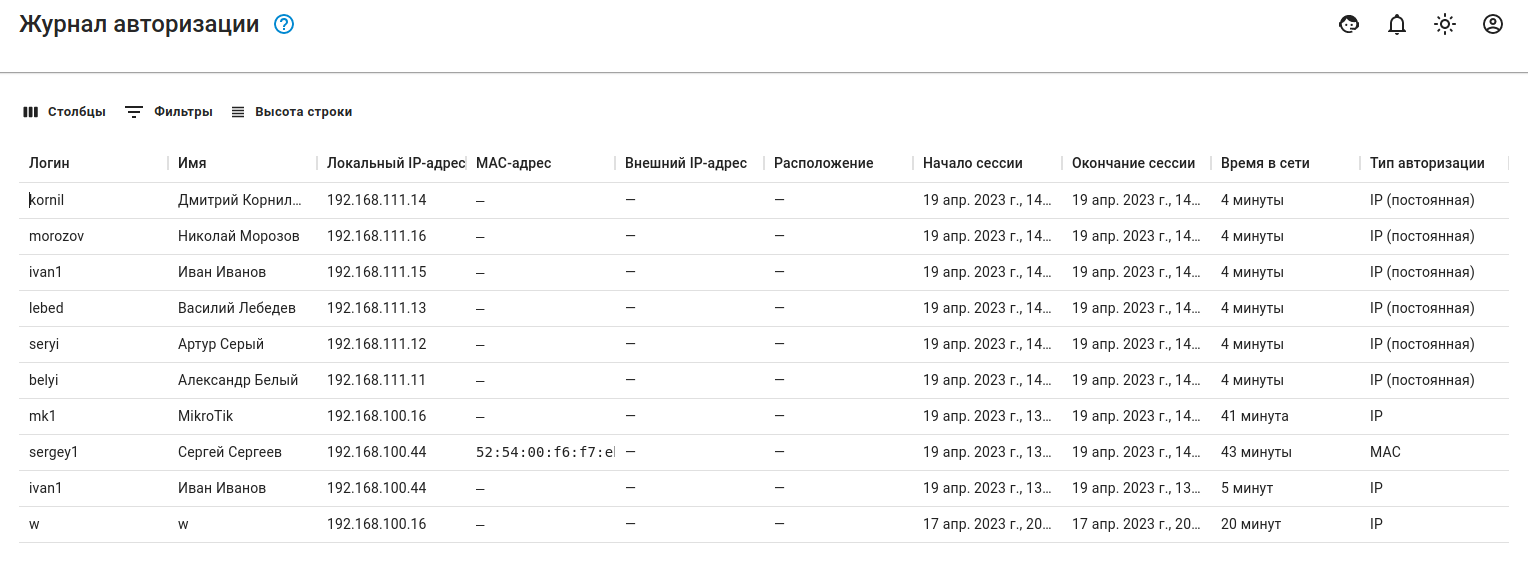
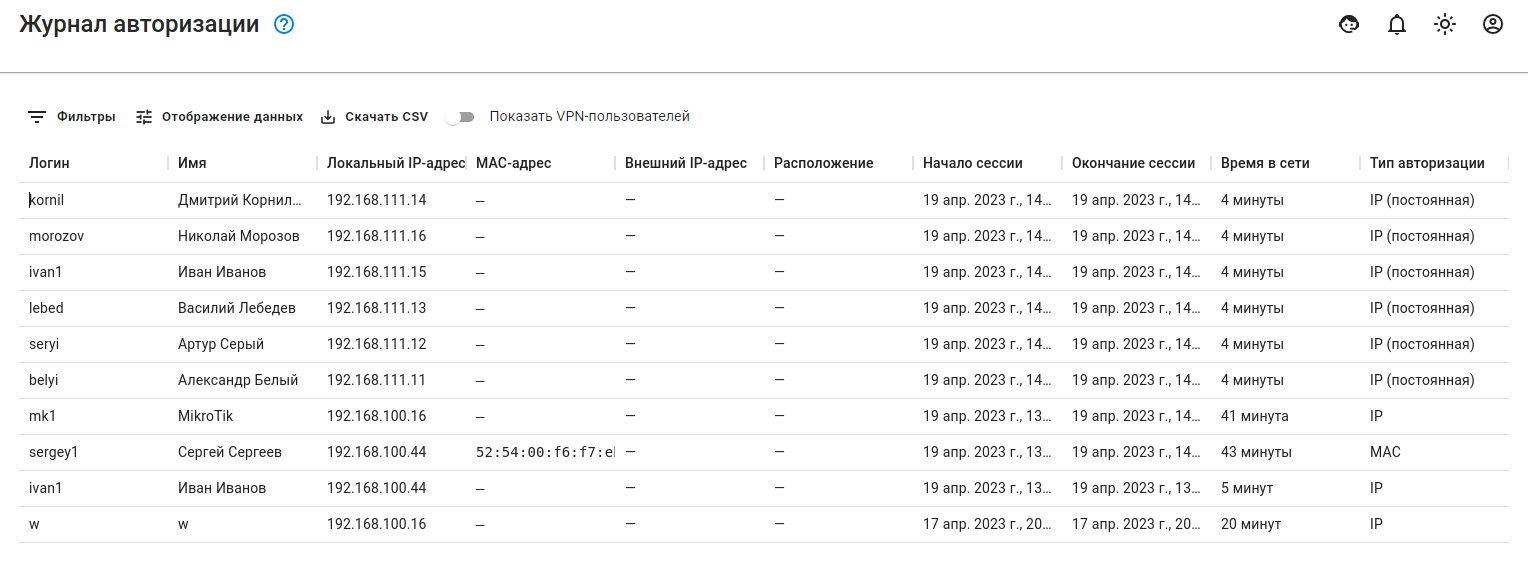
ICS-31985 УТМ. Добавить информацию о переключателе в ст-и "Журнал авторизации" и "Авторизованные пользователи и VPN пользователи"

Changed region(s): [[0.0, 0.1818, 0.4614, 0.2424]]

diff --git a/settings/monitor/authorized-users.md b/settings/monitor/authorized-users.md
@@ -1,4 +1,4 @@
-# Авторизованные пользователи и VPN-пользователи
+# Авторизованные пользователи 
 
 В разделе **Мониторинг -> Авторизованные пользователи** отображен список всех сессий пользователей, которые авторизовались в NGFW.
 
@@ -15,12 +15,4 @@
 
 В столбце **Управление** можно разавторизовать пользователя при необходимости.
 
-## VPN-пользователи
-
-В разделе **Мониторинг -> VPN-пользователи** отображен список всех пользователей, у которых в [настройках пользователя](../users/user-tree/customization-of-users.md#kategoriya-osnovnoe) отмечен пункт **Разрешить удаленный доступ по VPN**.
-
-Пример таблицы с пользователями подключенными по VPN представлен на скриншоте ниже:
-
-![](../../.gitbook/assets/vpn-auth.png)
-
-Если в столбце **Запретить VPN** нажать кнопку ![](../../.gitbook/assets/vpn-auth1.png), то NGFW запретит этому пользователю VPN-подключение и снимет флаг **Разрешить удалённый доступ через VPN** в разделе **Пользователи -> Учетные записи**.
+Включение опции **Показать VPN-пользователей** отфильтрует в таблице журнала информацию о всех VPN-сессиях по всем протоколам.

diff --git a/settings/reports/authorization-log.md b/settings/reports/authorization-log.md
@@ -19,3 +19,5 @@ description: >-
 * Время окончания открытой сессии пользователя меняется каждые 5 минут, поскольку происходит запись текущего времени в поле **Окончание сессии**. Если запрос на поиск будет отправлен до момента синхронизации буфера, то время окончания будет одно. В ином случае будет другое.
 
 * Для завершённой сессии информация о времени закрытия не меняется.
+
+Включение опции **Показать VPN-пользователей** отфильтрует в таблице журнала информацию о всех VPN-сессиях по всем протоколам.

diff --git a/SUMMARY.md b/SUMMARY.md
@@ -54,7 +54,7 @@
   * [Обнаружение устройств](settings/users/device-discovery.md)
   * [Wi-Fi-сети](settings/users/wifi-network.md)
 * [Мониторинг](settings/monitor/README.md)
-  * [Авторизованные пользователи и VPN-пользователи](settings/monitor/authorized-users.md)
+  * [Авторизованные пользователи](settings/monitor/authorized-users.md)
   * [График загруженности](settings/monitor/workload-schedule.md)
   * [Монитор трафика](settings/monitor/traffic.md)
   * [Проверка IP/домена](settings/monitor/ip-check.md)
